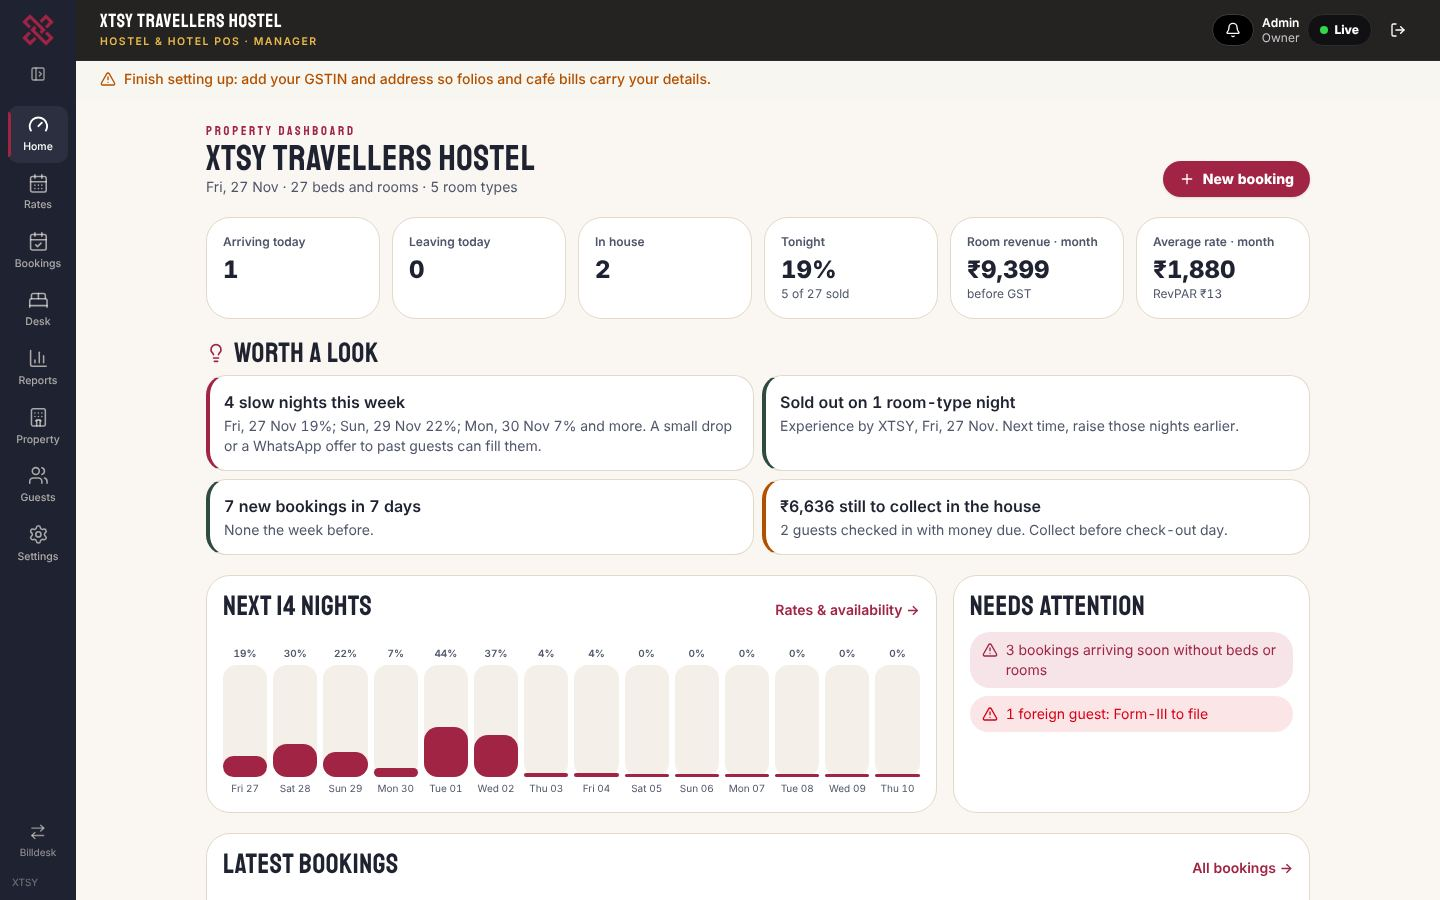
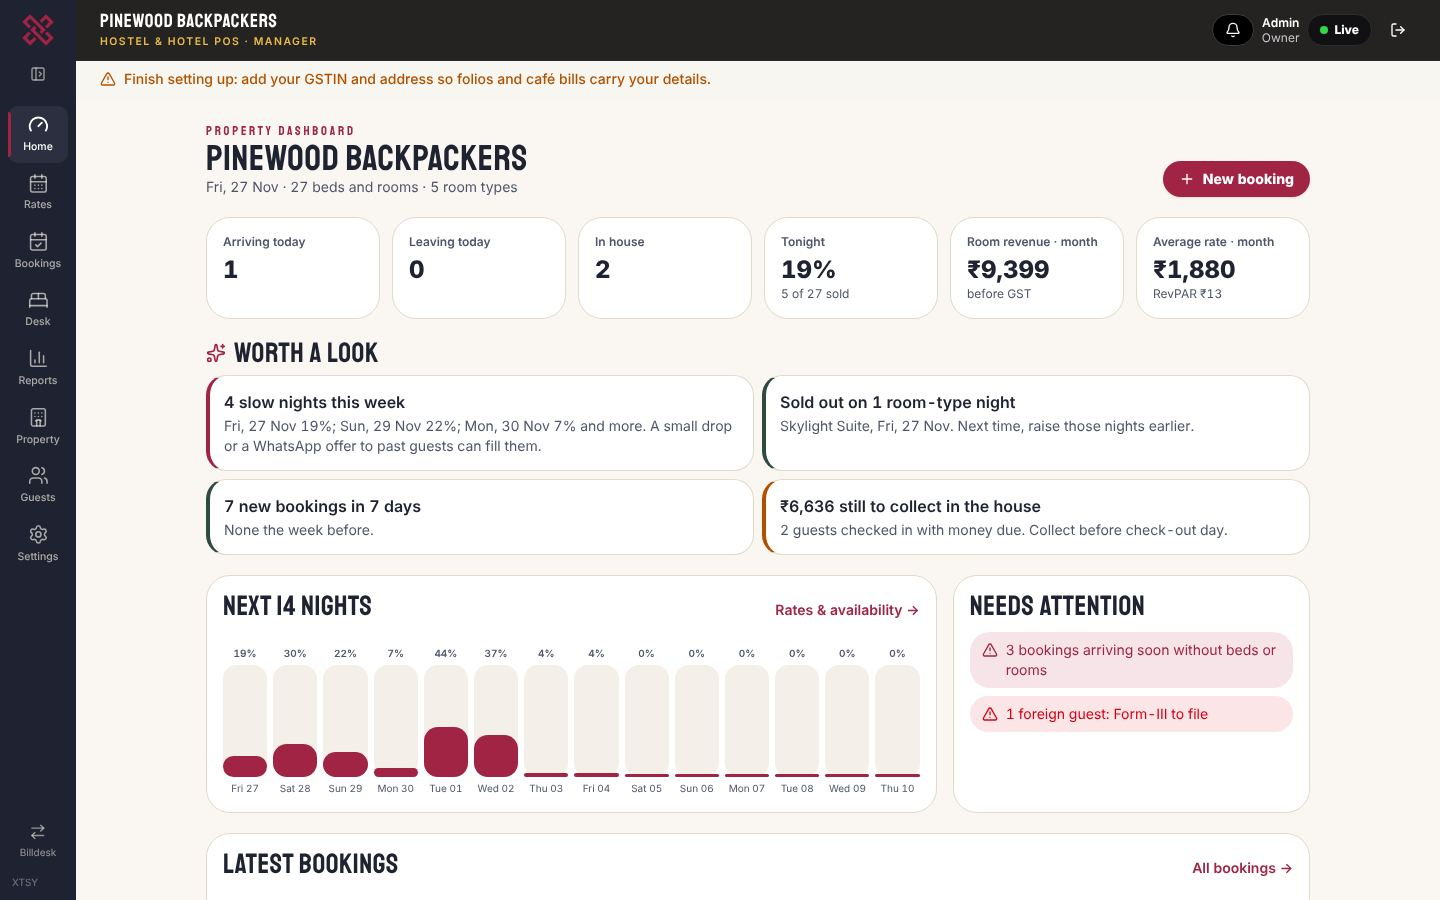
Website: no property names; head office Coimbatore, Tamil Nadu
- Hero, hostel section, status board and FAQ no longer name XTSY Travellers
  Hostel or its location; stay screens re-shot with a made-up demo property.
- Privacy, terms and refunds give XTSY Ventures Private Limited as
  Coimbatore, Tamil Nadu; terms name the courts at Coimbatore.
- Test keeps property names out of the public copy.

Claude-Session: https://claude.ai/code/session_01KqjjvBGqY6YDBydSmLFgGP

diff --git a/src/lib/site-content.ts b/src/lib/site-content.ts
@@ -25,7 +25,7 @@ export const STAY_FEATURE_BLOCKS: { title: string; text: string; state?: string 
   { title: "Housekeeping", text: "Clean, dirty or out of order per bed and room, so the desk never gives an unmade bed." },
   { title: "Café on the room", text: "The café bills on the guest's bed or room from POS Billdesk; check-out waits until it's settled." },
   { title: "Smarter rates", text: "Suggestions from your own bookings: busy and weekend nights go up, empty nights close in come down. Nothing changes until you tap Apply." },
-  { title: "Channel manager", text: "Room counts and prices sent to booking sites through ZimmerStack, from the same calendar. The connection is being set up with the pilot property and isn't sending yet.", state: "Rolling out" },
+  { title: "Channel manager", text: "Room counts and prices sent to booking sites through ZimmerStack, from the same calendar. The connection is being set up during the pilot and isn't sending yet.", state: "Rolling out" },
 ];
 
 /** The demo videos on the website: real XTSY POS screens, recorded with TAB Bistro's menu. */
@@ -63,7 +63,7 @@ export const STATUS: { live: string[]; testing: { name: string; note: string }[]
     "Billing without internet",
   ],
   testing: [
-    { name: "Hostel & Hotel POS", note: "In its pilot at XTSY Travellers Hostel, New Shillong: rates, bookings, front desk, housekeeping and reports. More properties join by invitation." },
+    { name: "Hostel & Hotel POS", note: "In its pilot: rates, bookings, front desk, housekeeping and reports. More properties join by invitation." },
     { name: "Channel manager for booking sites", note: "Part of Hostel & Hotel POS. The ZimmerStack connection is being set up; it doesn't send to booking sites yet." },
     { name: "Swiggy and Zomato orders on the POS", note: "Working in a test sandbox. Switches on once the partner access is approved." },
     { name: "Kitchen display screen", note: "Switched on by XTSY for restaurants that ask for it." },
@@ -86,8 +86,8 @@ export function faqFor(plans: PublicPlan[]): { q: string; a: string }[] {
     { q: "Which plan has the waiter app and QR ordering?", a: "Waiter Pro, guest QR ordering, gift cards, guest feedback and marketing come with Pro and Enterprise / Brand. Pro Lite adds purchases, vendors, recipe costing, guest loyalty and table reservations to Basic." },
     { q: "What is in Enterprise / Brand?", a: "Everything in Pro, with unlimited Billdesk and Waiter users, up to 4 admins, accounts (profit and loss, expenses, day book), audit logs, and several outlets under one brand." },
     { q: "Do Swiggy and Zomato orders come into the POS?", a: "Not yet. The connection works in a test sandbox and goes live once Swiggy and Zomato approve partner access. Until then, bill those orders on the POS as Swiggy or Zomato orders." },
-    { q: "Is there a version for hostels and hotels?", a: "Yes: Hostel & Hotel POS, with its own sign-in and apps. It is in its pilot at XTSY Travellers Hostel, so it isn't sold on price yet; send an enquiry to join the pilot. A café or restaurant on the property bills on the room from the same software." },
-    { q: "Does Hostel & Hotel POS include a channel manager?", a: "Yes, as part of the same software, not a separate subscription. Room counts and prices go to booking sites through ZimmerStack from the same calendar the desk uses. The connection is being set up now with the pilot property and isn't sending to booking sites yet." },
+    { q: "Is there a version for hostels and hotels?", a: "Yes: Hostel & Hotel POS, with its own sign-in and apps. It is in its pilot, so it isn't sold on price yet; send an enquiry to join the pilot. A café or restaurant on the property bills on the room from the same software." },
+    { q: "Does Hostel & Hotel POS include a channel manager?", a: "Yes, as part of the same software, not a separate subscription. Room counts and prices go to booking sites through ZimmerStack from the same calendar the desk uses. The connection is being set up now during the pilot and isn't sending to booking sites yet." },
     { q: "How do I pay for a plan?", a: "There's no online payment on this website. Send an enquiry and the XTSY team sets you up and shares the payment details." },
     { q: "When can I get support?", a: "Every day of the week, Saturday and Sunday included, except national holidays. Reach the XTSY team on WhatsApp and a person answers." },
   ];

diff --git a/src/routes/xtsy-pos.tsx b/src/routes/xtsy-pos.tsx
@@ -94,7 +94,7 @@ function SitePage() {
                 <a href="#demos" className="inline-flex min-h-12 items-center gap-2 rounded-full border border-white/20 px-6 font-bold hover:bg-white/5"><Play className="size-4 fill-current" />Watch the demos</a>
               </div>
               <p className="mt-8 max-w-[34rem] text-sm text-muted-foreground">
-                Running every day at <Link to="/tab-bistro" className="font-semibold text-foreground underline decoration-primary/60 underline-offset-4 hover:decoration-primary">TAB Bistro by XTSY</Link> and XTSY Travellers Hostel. Made by XTSY Ventures Private Limited, a DPIIT-recognised startup from Coimbatore, Tamil Nadu, for restaurants and stays across India and Asia.
+                Running every day at <Link to="/tab-bistro" className="font-semibold text-foreground underline decoration-primary/60 underline-offset-4 hover:decoration-primary">TAB Bistro by XTSY</Link>. Made by XTSY Ventures Private Limited, a DPIIT-recognised startup from Coimbatore, Tamil Nadu, for restaurants and stays across India and Asia.
               </p>
             </div>
             <div>
@@ -241,7 +241,7 @@ function StaysSection({ onJoin }: { onJoin: () => void }) {
       <div className="mx-auto max-w-6xl">
         <p className="text-sm font-bold text-[#A12444]">Hostel & Hotel POS · pilot</p>
         <h2 className="font-brand mt-2 text-[2.6rem] leading-none md:text-6xl">PMS and channel manager, one software</h2>
-        <p className="mt-4 max-w-[60ch] text-[#1F2230]/75">Built at XTSY Travellers Hostel, where dorm beds, private rooms and a glass suite sell side by side. The desk, the owner and the booking sites work from one calendar, and it keeps working when the Wi-Fi doesn't.</p>
+        <p className="mt-4 max-w-[60ch] text-[#1F2230]/75">Built for properties where dorm beds, private rooms and suites sell side by side. The desk, the owner and the booking sites work from one calendar, and it keeps working when the Wi-Fi doesn't.</p>
         <div className="mt-10 grid gap-5 lg:grid-cols-[1.25fr_1fr]">
           <figure className="overflow-hidden rounded-2xl border border-[#1F2230]/15 bg-white shadow-sm">
             <img src="/site/stays-rates.jpg" alt="Hostel & Hotel POS rates and availability calendar with suggested rates" width={1440} height={900} loading="lazy" className="block h-auto w-full" />

diff --git a/src/components/site/LegalPage.tsx b/src/components/site/LegalPage.tsx
@@ -21,7 +21,7 @@ export function LegalPage({ title, updated, children }: { title: string; updated
       </header>
       <main className="mx-auto max-w-3xl px-4 py-12">
         <h1 className="font-brand text-5xl leading-none md:text-6xl">{title}</h1>
-        <p className="mt-3 text-sm text-muted-foreground">Last updated {updated}. XTSY Ventures Private Limited, New Shillong, Meghalaya, India.</p>
+        <p className="mt-3 text-sm text-muted-foreground">Last updated {updated}. XTSY Ventures Private Limited, Coimbatore, Tamil Nadu, India.</p>
         <div className="legal mt-10 max-w-[68ch] space-y-4 leading-relaxed text-[#d6d6db] [&_a]:text-foreground [&_a]:underline [&_a]:underline-offset-4 [&_h2]:mt-10 [&_h2]:text-xl [&_h2]:font-bold [&_h2]:text-foreground [&_li]:ml-5 [&_li]:list-disc [&_ul]:space-y-2">
           {children}
         </div>

diff --git a/src/routes/terms.tsx b/src/routes/terms.tsx
@@ -51,7 +51,7 @@ function Terms() {
       <p>You can stop at any time by telling us; the plan stays live until its paid-until date. We may suspend an outlet that breaks these terms or doesn't pay, after telling you.</p>
 
       <h2>Law and disputes</h2>
-      <p>These terms are governed by the laws of India. Disputes are subject to the courts at Shillong, Meghalaya. Write to <a href="mailto:admin@xtsy.one">admin@xtsy.one</a> first; most things are settled faster that way.</p>
+      <p>These terms are governed by the laws of India. Disputes are subject to the courts at Coimbatore, Tamil Nadu. Write to <a href="mailto:admin@xtsy.one">admin@xtsy.one</a> first; most things are settled faster that way.</p>
     </LegalPage>
   );
 }

diff --git a/src/lib/site-content.test.ts b/src/lib/site-content.test.ts
@@ -30,3 +30,11 @@ describe("website content", () => {
     expect(marketingPath("/login")).toBe("/xtsy-pos");
   });
 });
+
+describe("no property names in public copy", () => {
+  it("never names the pilot hostel or its location", async () => {
+    const mod = await import("./site-content");
+    const text = JSON.stringify([mod.SITE_PRODUCTS, mod.STAY_FEATURE_BLOCKS, mod.STATUS, mod.faqFor([]), mod.SITE_DESCRIPTION]);
+    expect(text).not.toMatch(/Travellers Hostel|Experience by XTSY|Shillong|Meghalaya/i);
+  });
+});

diff --git a/AGENTS.md b/AGENTS.md
@@ -618,3 +618,4 @@ turned solid (orange text on solid orange, solid red alerts). Fixed at build tim
 - **Console per product**: `sectionsFor(product)` — stays get Channel manager, never Swiggy & Zomato; restaurants the reverse (also enforced in `parseConsoleHash`). Features per product: `featuresFor(stay)` / `STAY_FEATURES` / `featureName` in plans.ts (stays never see aggregators, waiter_app, kds, recipes, bookings, gift_cards, online_ordering; restaurants never see pms). Stay plans are `stay_*` rows (`isStayPlan`): the plan picker offers only the product's own plans, and Plans lists Restaurant POS and Hostel & Hotel POS separately. The console wears the xtsy.one look (cream, ink, crimson).
 - **Smart layer** (`pms/smart.ts`, tested): `rateSuggestions` per type and night (busy +10%/+20%, weekend +10% from 50%, close-in empty −10%, clamp 70–160% of base, rounded; only in the reason's direction; closed/sold-out skipped) shown on Rates (`SmartRates`, Apply / Apply all, owner/manager); `stayInsights` on Home (`StayInsights`: slow nights, sell-outs, pickup, booking-site share, money to collect). Nothing changes without a tap.
 - **Website**: two products (`SITE_PRODUCTS`, `STAY_FEATURE_BLOCKS`, `#products`, `#stays` with screens in `public/site/`, robots allows `/site/`). Hostel & Hotel POS is "Pilot" with no price; the channel manager is "Rolling out" (not sending yet) — keep it so until ZimmerStack is connected. Enquiries carry the product.
+- **No property names on the public website (owner, 27 Nov 2026):** never name XTSY Travellers Hostel, its rooms (Experience by XTSY) or its location on the website, status board or FAQ; stay screenshots use the made-up "Pinewood Backpackers" (`shots-tool/rec/demo-stays-drive.mjs`). XTSY Ventures Private Limited is a DPIIT-recognised startup headquartered in Coimbatore, Tamil Nadu: policy pages and terms (courts at Coimbatore) say so. TAB Bistro's own pages keep its New Shillong address.
